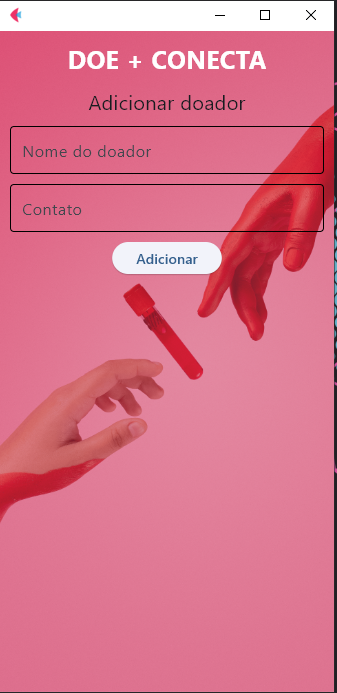
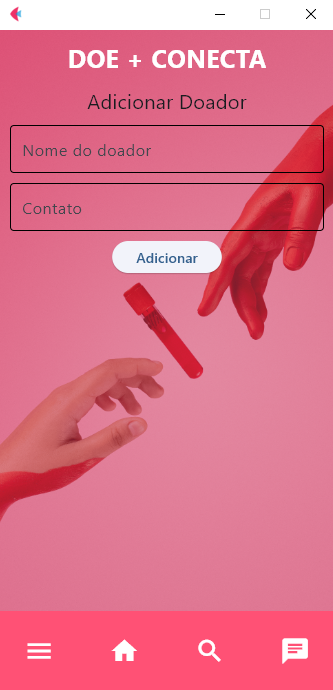
Add Pagina Opcoes

diff --git a/pagina_opcoes.py b/pagina_opcoes.py
@@ -1,0 +1,178 @@
+import flet as ft
+
+def main(page:ft.Page):
+    page.horizontal_alignment = 'center'
+    page.vertical_alignment = 'center'
+    page.title = 'Opções'
+    page.window.height = 700
+    page.window.width = 350
+    page.window_maximizable = False
+
+    page.bgcolor = ft.colors.TRANSPARENT
+    page.decoration = ft.BoxDecoration(
+        image=ft.DecorationImage(
+            src="assets/DoeMais.png",
+            fit=ft.ImageFit.COVER,
+            opacity=1,
+        )
+    )
+
+    page.bottom_appbar = ft.BottomAppBar(
+        bgcolor= '#FF5175',
+        content=ft.Row(
+            controls=[
+                ft.IconButton(icon=ft.icons.HOME, icon_color='#AB092A', icon_size=30),
+                ft.IconButton(icon=ft.icons.LOCAL_HOSPITAL, icon_color=ft.colors.WHITE, icon_size=30),
+                ft.IconButton(icon=ft.icons.HEALTH_AND_SAFETY, icon_color=ft.colors.WHITE, icon_size=30),
+                ft.IconButton(icon=ft.icons.BLOODTYPE_OUTLINED, icon_color=ft.colors.WHITE, icon_size=30),
+                ft.IconButton(icon=ft.icons.CHAT, icon_color=ft.colors.WHITE,icon_size=30),
+            ],
+            alignment=ft.MainAxisAlignment.CENTER,
+        ),
+    )
+
+    page.appbar = ft.AppBar(
+        title=ft.Text("Home", color='white', font_family="Verdana"),
+        center_title=True,
+        bgcolor='#FF5175',
+        leading=ft.IconButton(
+            icon=ft.icons.MENU,
+            icon_color='white',
+            on_click=lambda e: print("Menu clicado"),
+        ),
+    )
+
+    page.add(
+        ft.Column(
+            [
+                ft.Container(
+                    content=ft.Row(
+                        controls=[
+                            ft.Icon(ft.icons.LOCAL_HOSPITAL, color='#FF5175', size=35),
+                            ft.Text(
+                                "Encontre posto de coleta", color='#FF5175', size=18, font_family="Verdana",
+                            ),
+                        ],
+                        alignment=ft.MainAxisAlignment.START,  
+                        vertical_alignment=ft.CrossAxisAlignment.CENTER,  
+                    ), 
+                    margin=10,
+                    padding=10,
+                    alignment=ft.alignment.center,
+                    bgcolor=ft.colors.WHITE,
+                    width=300,
+                    height=80,
+                    border_radius=5,
+                    shadow=ft.BoxShadow(
+                        spread_radius=0,
+                        blur_radius=20,
+                        color=ft.colors.BLACK,
+                        offset=ft.Offset(0, 0),
+                        blur_style=ft.ShadowBlurStyle.OUTER,
+                    ),
+                    on_click=lambda e: print("Clickable without Ink clicked!"),
+                ),
+                ft.Container(
+                    content=ft.Row(
+                        controls=[
+                            ft.Icon(ft.icons.HEALTH_AND_SAFETY, color='#FF5175', size=35),
+                            ft.Text(
+                                "Agendamento de doações", color='#FF5175', size=18, font_family="Verdana",
+                            ),
+                        ],
+                        alignment=ft.MainAxisAlignment.SPACE_AROUND,  
+                        vertical_alignment=ft.CrossAxisAlignment.CENTER,  
+                    ), 
+                    margin=10,
+                    padding=10,
+                    alignment=ft.alignment.center,
+                    bgcolor=ft.colors.WHITE,
+                    width=300,
+                    height=80,
+                    border_radius=5,
+                    shadow=ft.BoxShadow(
+                        spread_radius=0,
+                        blur_radius=20,
+                        color=ft.colors.BLACK,
+                        offset=ft.Offset(0, 0),
+                        blur_style=ft.ShadowBlurStyle.OUTER,
+                    ),
+                    on_click=lambda e: print("Clickable without Ink clicked!"),
+                ),
+                ft.Container(
+                    content=ft.Row(
+                        controls=[
+                            ft.Icon(ft.icons.BLOODTYPE_OUTLINED, color='#FF5175', size=35),
+                            ft.Text(
+                                "Campanhas de doações", color='#FF5175', size=18, font_family="Verdana",
+                            ),
+                        ],
+                        alignment=ft.MainAxisAlignment.START,  
+                        vertical_alignment=ft.CrossAxisAlignment.CENTER,  
+                    ),  
+                    margin=10,
+                    padding=10,
+                    alignment=ft.alignment.center,
+                    bgcolor=ft.colors.WHITE,
+                    width=300,
+                    height=80,
+                    border_radius=5,
+                    shadow=ft.BoxShadow(
+                        spread_radius=0,
+                        blur_radius=20,
+                        color=ft.colors.BLACK,
+                        offset=ft.Offset(0, 0),
+                        blur_style=ft.ShadowBlurStyle.OUTER,
+                    ),
+                    on_click=lambda e: print("Clickable without Ink clicked!"),
+                ),
+                ft.Container(
+                    content=ft.Row(
+                        controls=[
+                            ft.Icon(ft.icons.CHAT, color='#FF5175', size=30),
+                            ft.Text(
+                                "Chat tira dúvidas", color='#FF5175', size=18, font_family="Verdana",
+                            ),
+                        ],
+                        alignment=ft.MainAxisAlignment.START,  
+                        vertical_alignment=ft.CrossAxisAlignment.CENTER,  
+                    ),                    
+                    margin=10,
+                    padding=10,
+                    alignment=ft.alignment.center,
+                    bgcolor=ft.colors.WHITE,
+                    width=300,
+                    height=80,
+                    border_radius=5,
+                    shadow=ft.BoxShadow(
+                        spread_radius=0,
+                        blur_radius=20,
+                        color=ft.colors.BLACK,
+                        offset=ft.Offset(0, 0),
+                        blur_style=ft.ShadowBlurStyle.OUTER,
+                    ),
+                    on_click=lambda e: print("Clickable without Ink clicked!"),
+                ),              
+            ],
+            alignment=ft.MainAxisAlignment.CENTER,
+        ),
+    )
+
+
+    # Stack principal
+    _stack_main = ft.Stack(
+        controls=[
+
+        ]
+    )
+
+
+
+    page.add(_stack_main)
+
+if __name__ == '__main__':
+    ft.app(target=main)        
+            
+        
+        
+    

diff --git a/main.py b/main.py
@@ -172,12 +172,13 @@ def main(page:Page):
         shape=NotchShape.CIRCULAR,
         content=Row(
             controls=[
-                IconButton(icon=icons.MENU, icon_color=colors.WHITE),
-                IconButton(icon=icons.HOME, icon_color=colors.WHITE),
-                Container(expand=True),
-                IconButton(icon=icons.SEARCH, icon_color=colors.WHITE),
-                IconButton(icon=icons.CHAT, icon_color=colors.WHITE),
-            ]
+                IconButton(icon=icons.MENU, icon_color=colors.WHITE, icon_size= 30),
+                IconButton(icon=icons.HOME, icon_color=colors.WHITE, icon_size= 30),
+                #Container(expand=True),
+                IconButton(icon=icons.SEARCH, icon_color=colors.WHITE, icon_size= 30),
+                IconButton(icon=icons.CHAT, icon_color=colors.WHITE, icon_size= 30),
+            ],
+            alignment=MainAxisAlignment.SPACE_BETWEEN,
         ),
     )
     
